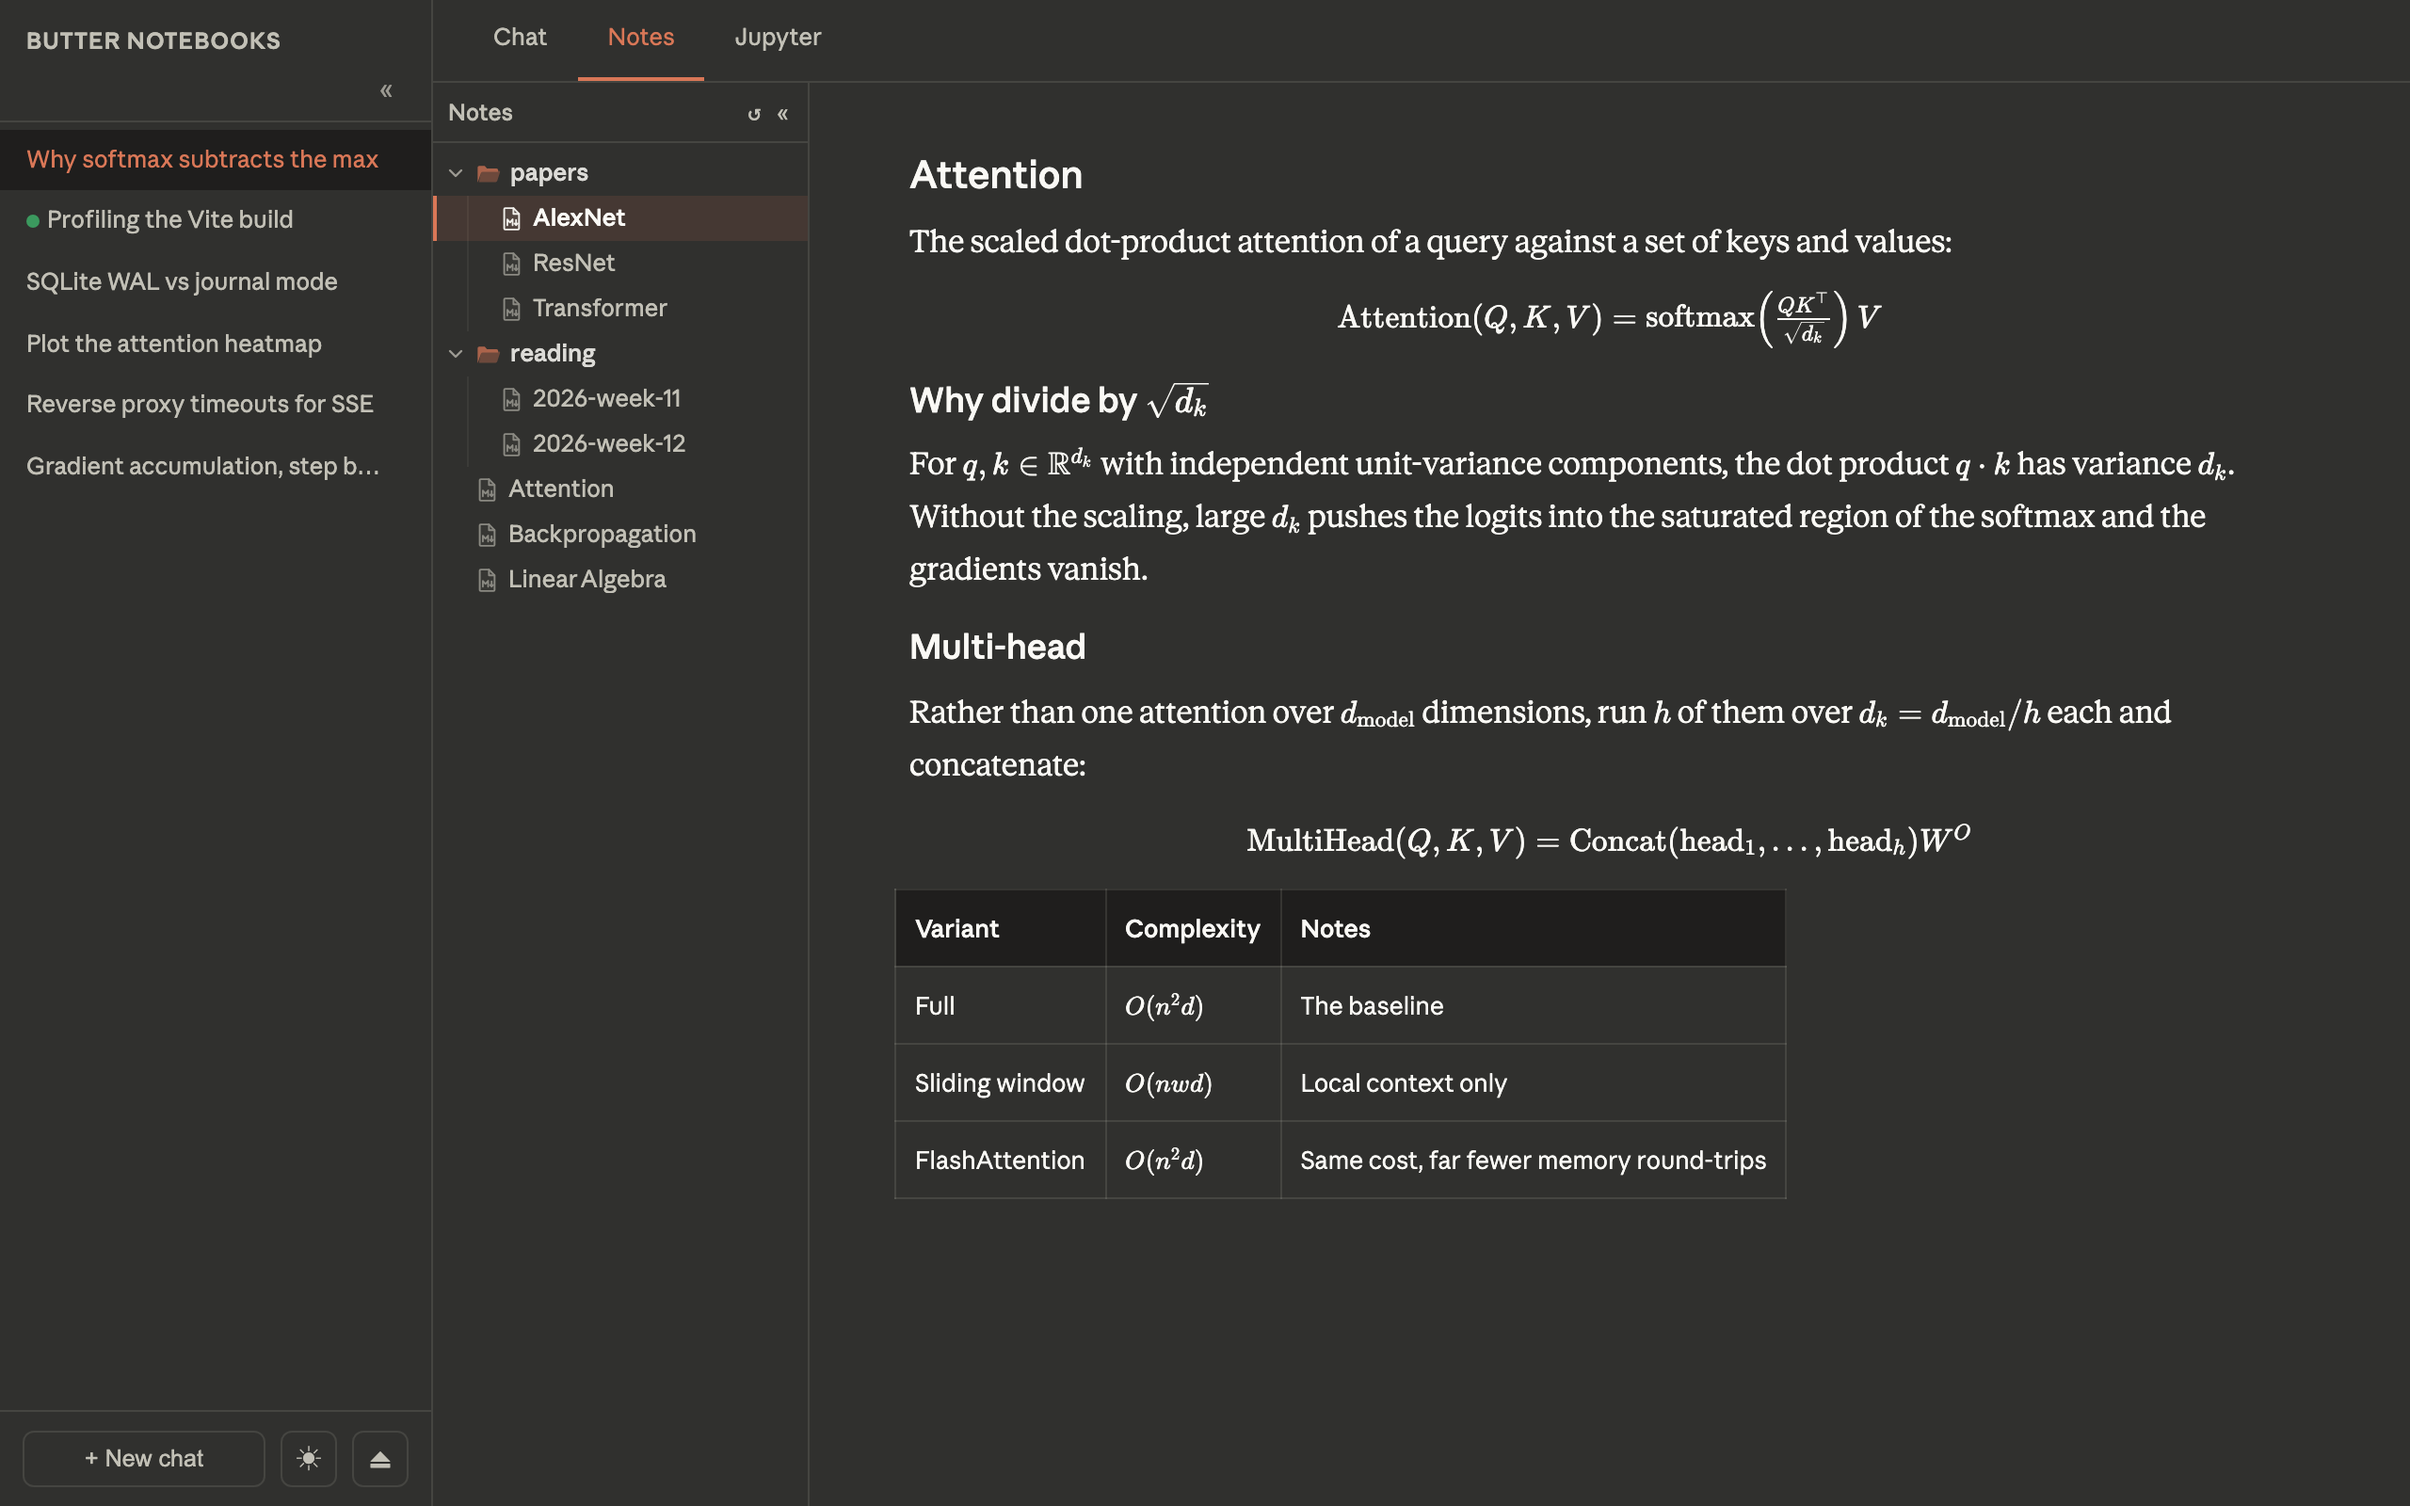
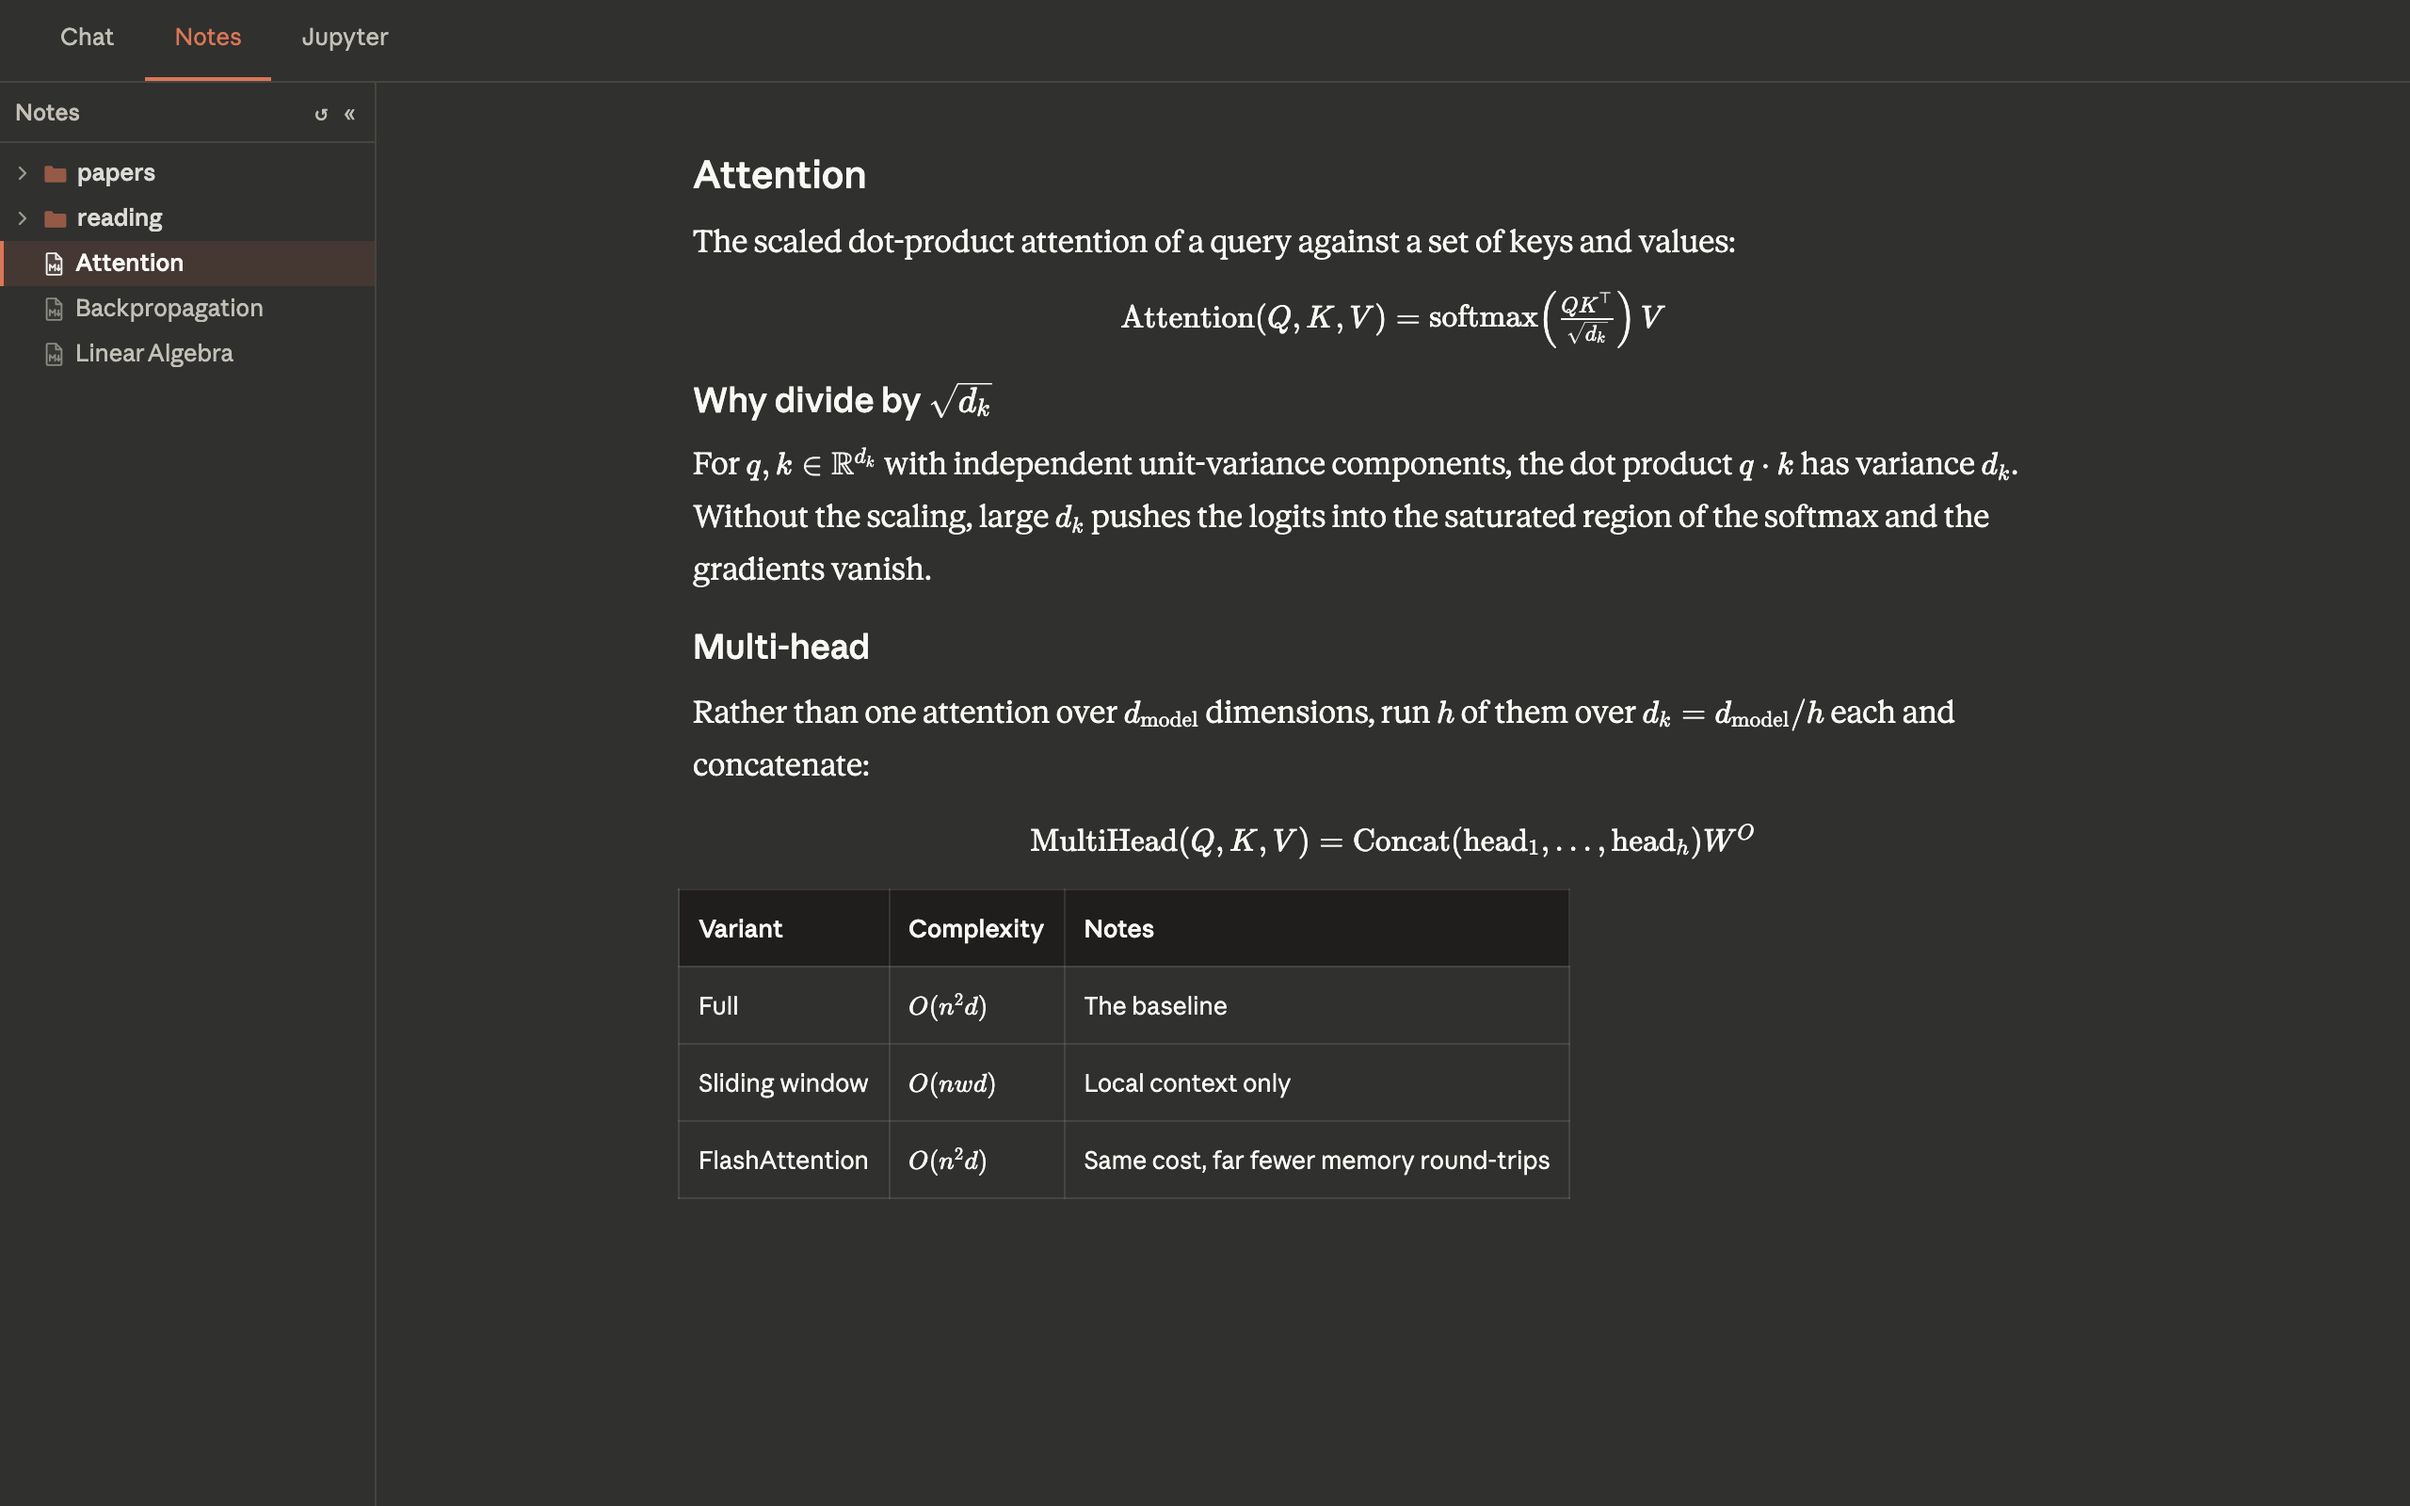
docs: put Ask AI in the feature highlights, in both READMEs
Adds the feature that has turned out to be the useful one: select a passage in
a note or a PDF, ask about it, follow up, and nothing is stored as a
conversation. Also updates the Notes entry, which still described Markdown only
— PDFs and syntax-highlighted source came later.

The screenshot is captured by shots.mjs like the others, with the answer mocked
as an SSE stream so it renders exactly as it does against the backend and stays
reproducible.

Two fixes to that script while adding it: it wrote to docs/screenshots relative
to the frontend directory it runs from, so the files landed in the wrong place;
and its `const URL` shadowed the global constructor, which broke the moment the
output path needed one. It also no longer produces mobile.png, which neither
README uses.

diff --git a/README.md b/README.md
@@ -40,8 +40,18 @@ conversations still working.
 highlighting with copy buttons, tables, and images you can tap to view full
 size.
 
-**Notes.** Browse and read a Markdown vault (Obsidian or any folder) read-only,
-with the same renderer as chat.
+**Notes.** Browse a Markdown vault (Obsidian or any folder) read-only, with the
+same renderer as chat. PDFs are rendered page by page — iOS shows only the first
+page of one in an iframe, so pdf.js draws them instead — and source files open
+monospaced and syntax-highlighted.
+
+**Ask about what you're reading.** Select text in a note — or in a PDF, which
+carries a text layer for exactly this — and a question goes straight to an agent
+with the passage and the file's path attached, so it can open the file for more
+context. The answer arrives in a popover you can move and resize, and follow-ups
+continue the thread. Presets cover the usual asks; one walks the passage through
+the Feynman method and ends by asking you to restate it. None of this touches
+your conversations: it runs on the stateless endpoint, so nothing is stored.
 
 **Notebooks.** JupyterLab embedded in a tab, token-gated through the backend and
 reverse-proxied so files open inside the app.
@@ -63,6 +73,8 @@ requests.
 <td align="center"><em>Installed as a PWA on iOS</em></td>
 </tr>
 </table>
+
+![Asking about a selected passage without starting a conversation](docs/screenshots/ask.png)
 
 ## Architecture
 
